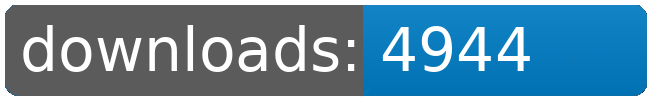
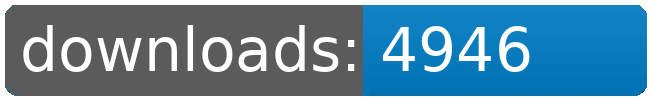
dl log written

Changed region(s): [[0.7692, 0.24, 0.8308, 0.72]]

diff --git a/README.md b/README.md
@@ -43,8 +43,8 @@
 		<td>4870</td>
 		<td>4900</td>
 		<td>4935</td>
-		<td>4944</td>
-		<td>+ 9</td>
+		<td>4946</td>
+		<td>+ 11</td>
 	</tr>
 	<tr>
 		<td>Jaws</td>
@@ -109,8 +109,8 @@
 		<td></td>
 		<td></td>
 		<td></td>
-		<td>32851</td>
-		<td>68</td>
+		<td>32853</td>
+		<td>70</td>
 	</tr>
 </table>
 </sub></sup>
@@ -135,8 +135,8 @@
 		<td>4870</td>
 		<td>4900</td>
 		<td>4935</td>
-		<td>4944</td>
-		<td>+ 9</td>
+		<td>4946</td>
+		<td>+ 11</td>
 	</tr>
 	<tr>
 		<td>Louise.Conglomerate.Shipyards</td>
@@ -223,8 +223,8 @@
 		<td></td>
 		<td></td>
 		<td></td>
-		<td>32851</td>
-		<td>68</td>
+		<td>32853</td>
+		<td>70</td>
 	</tr>
 </table>
 </sub></sup>
